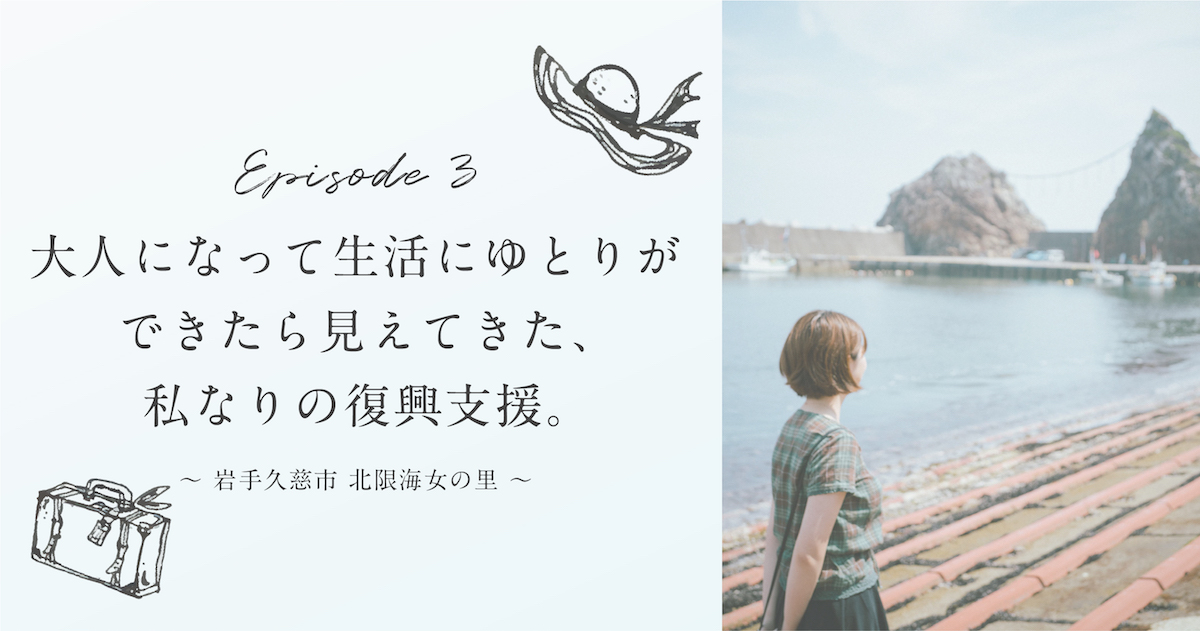
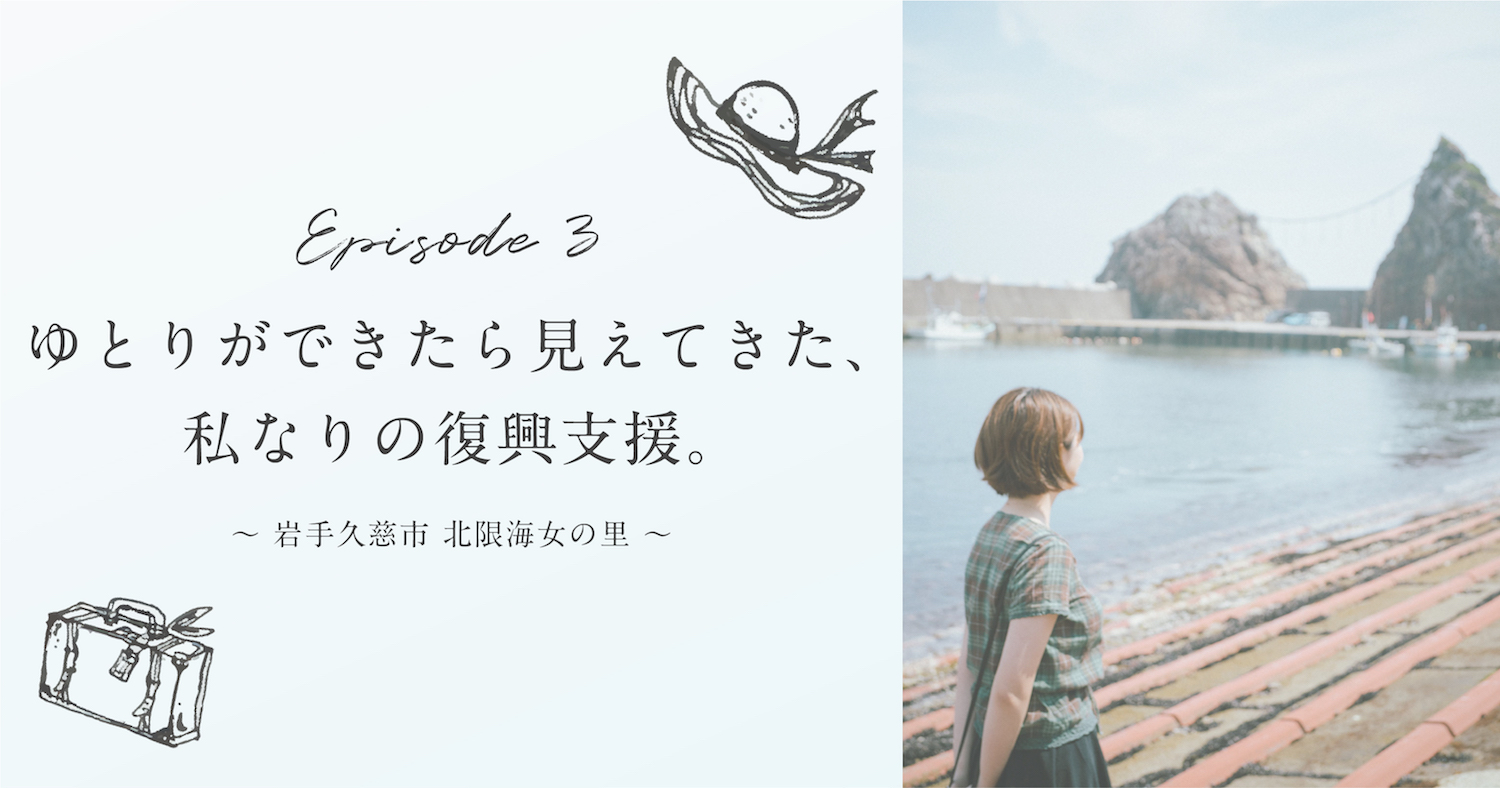
キャッシュレスすみれさん_文言調整

diff --git a/web/fuel/app/classes/controller/kinyu/withcorporate.php b/web/fuel/app/classes/controller/kinyu/withcorporate.php
@@ -102,7 +102,7 @@ class Controller_Kinyu_Withcorporate extends Controller_Kinyubase
         //     die('このページを見るにはログインが必要です');
         // }
 
-        $this->template->title = '大人になって生活にゆとりができたら見えてきた、私なりの復興支援。 | 今日も、キャッシュレス。';
+        $this->template->title = 'ゆとりができたら見えてきた、私なりの復興支援。 | 今日も、キャッシュレス。';
         $this->template->ogimg = '/images/withcorporate/paypay/article03/article3_og.jpg';
         $this->template->description = 'きんゆう女子。は、金融ワカラナイ女子のためのコミュニティです。Aboutページでは、きんゆう女子。についての説明をしています。';
 
